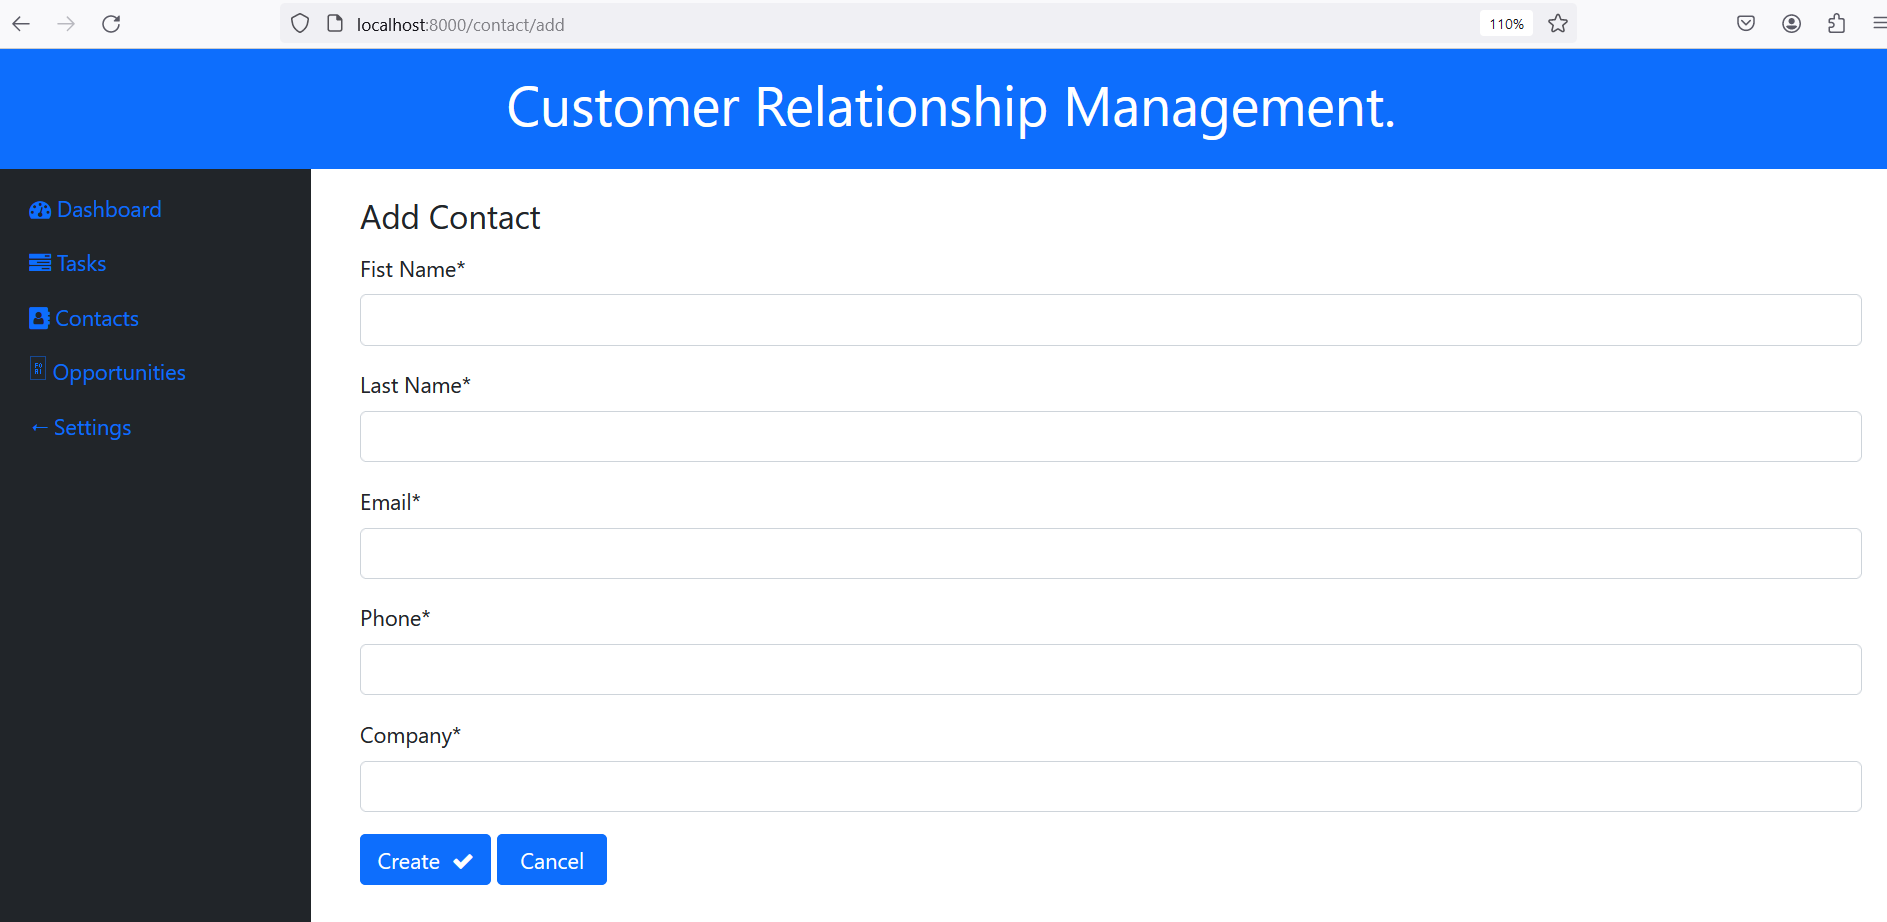
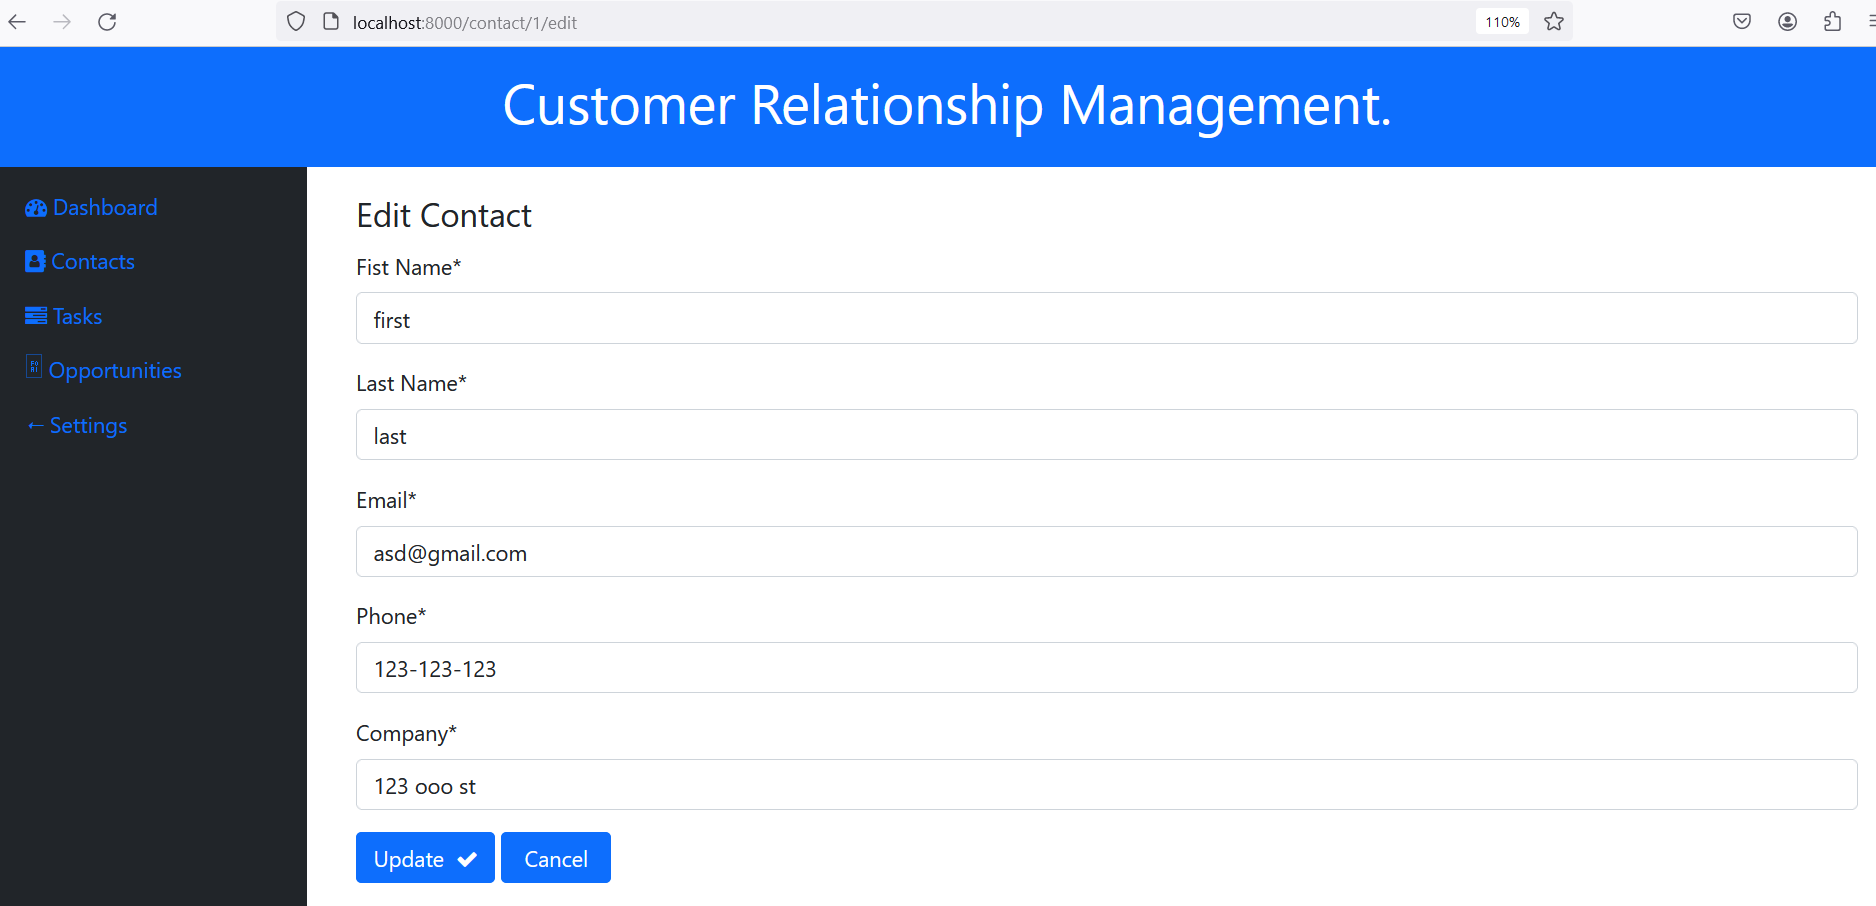
update

diff --git a/crm/webapp/templates/edit-contact.html b/crm/webapp/templates/edit-contact.html
@@ -10,21 +10,23 @@
         {% endif %}
     {% endfor %}
     <form method="POST" autocomplete="off">
-        {% csrf_token %}
-        {% for field in form %}
-        <div class="row">
-            <div class="col-xs-4">
-                {{field|as_crispy_field}}
+        <fieldset>
+            <legend>Edit Contact</legend>
+            {% csrf_token %}
+            {% for field in form %}
+            <div class="row">
+                <div class="col-xs-4">
+                    {{field|as_crispy_field}}
+                </div>
             </div>
-        </div>
-        {% endfor %}
-        <div class="col-auto">
-            <button type="submit" class="btn btn-primary mb-3">Update &nbsp;<i class="fa fa-check" aria-hidden="true"></i></button>
-            <a href="{% url 'list-contact' %}" class="btn btn-primary mb-3" role="button" aria-disabled="true">
-                &nbsp;Cancel&nbsp;
-            </a>
-        </div>
-        
+            {% endfor %}
+            <div class="col-auto">
+                <button type="submit" class="btn btn-primary mb-3">Update &nbsp;<i class="fa fa-check" aria-hidden="true"></i></button>
+                <a href="{% url 'list-contact' %}" class="btn btn-primary mb-3" role="button" aria-disabled="true">
+                    &nbsp;Cancel&nbsp;
+                </a>
+            </div>
+        </fieldset>
     </form>
 </div>
 {% endblock %}
